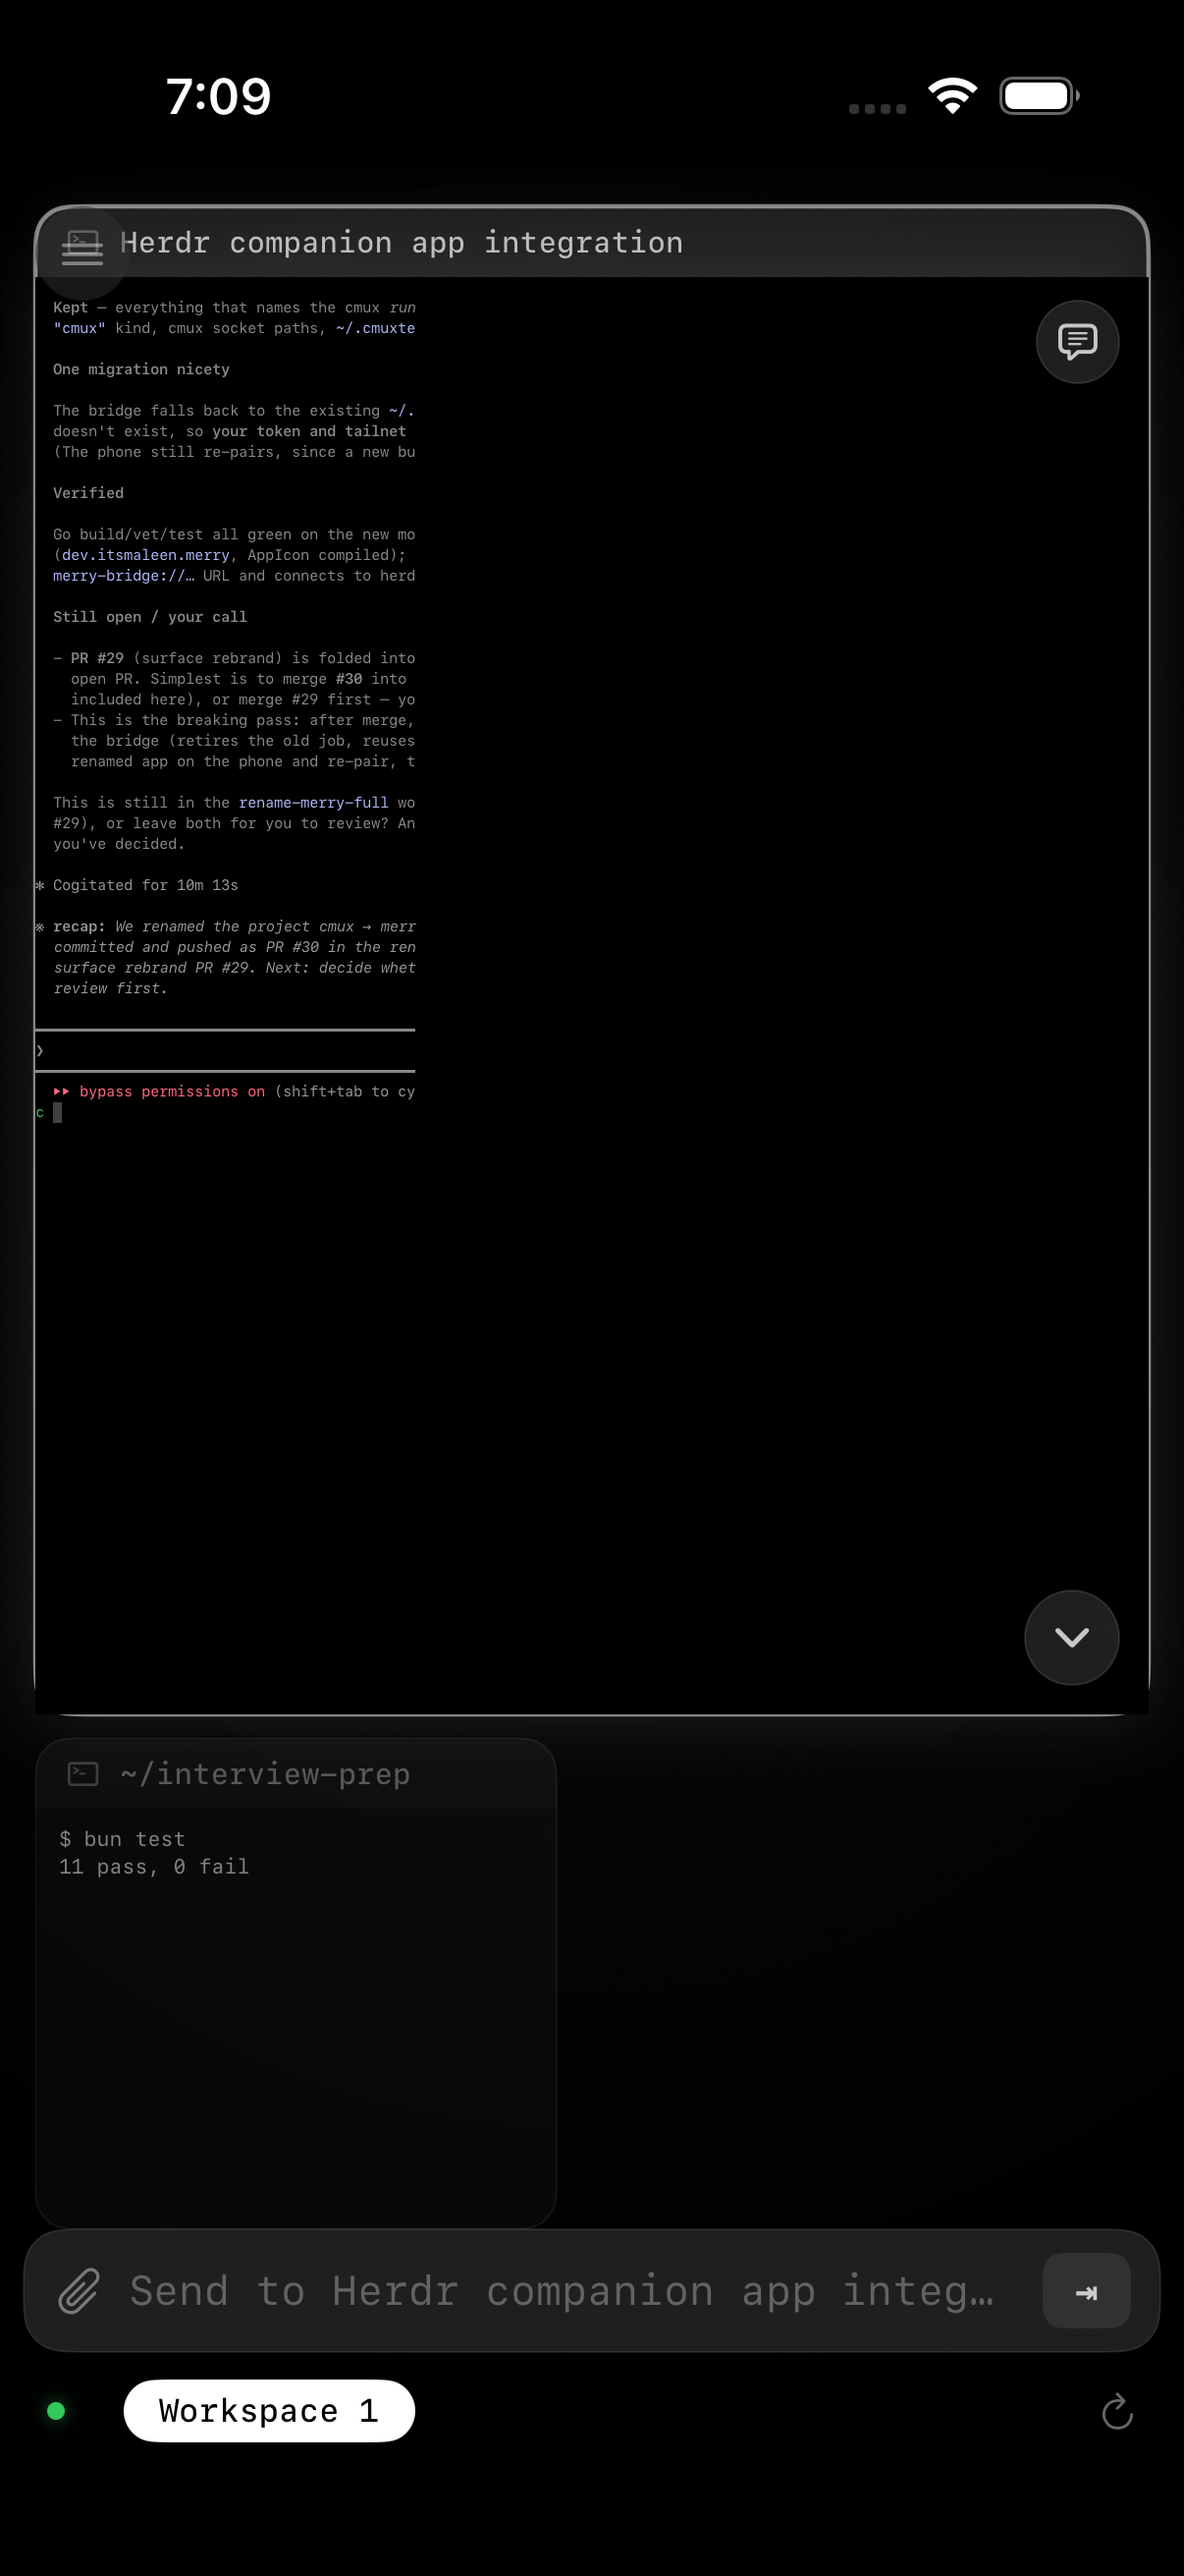
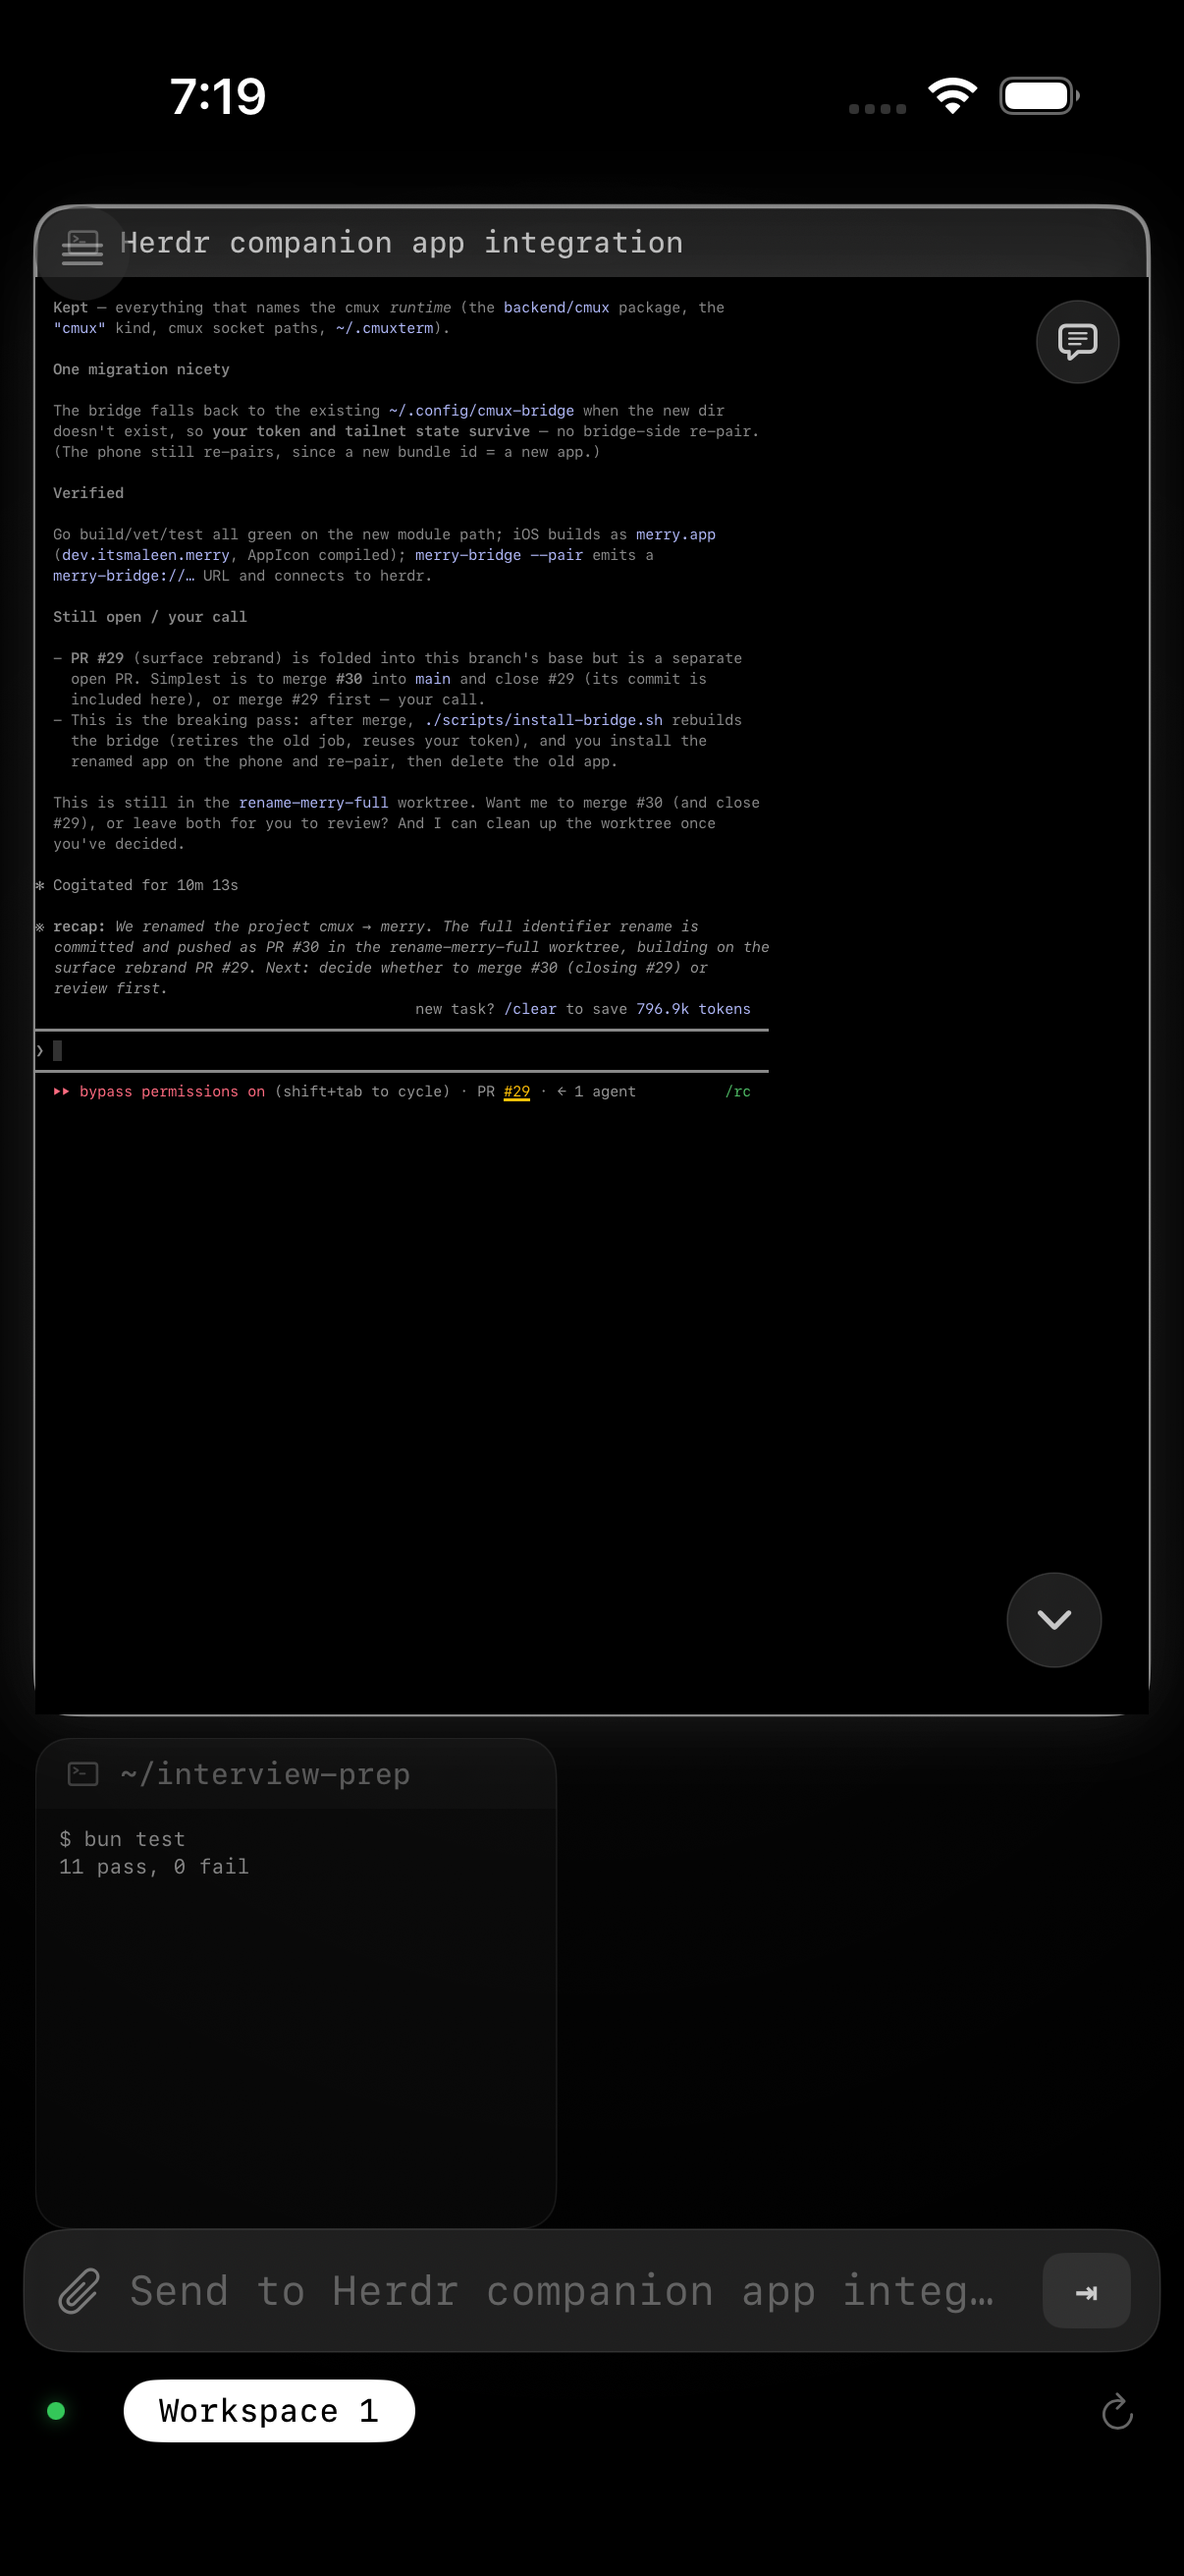
fix(ios): replay live frames after every SwiftTerm geometry change
SwiftTerm's layoutSubviews re-fits the terminal's column count to whatever
the bounds allow, and resizing a terminal that already holds content crops
it for good. The first layout after the view is created did exactly that:
fixture frames fed before layout were cropped to the 47 columns a 14pt font
fits, and the later re-fit to the frame's real width could not bring the
content back (both screenshots showed panes cut at ~47 columns).

DisplayOnlyTerminalView now keeps the last full frame plus the deltas since
it and, after any layout pass that changed the grid, resets the emulator,
re-asserts the frame's columns x rows, refits the font and replays the
bytes; frames are cursor-addressed repaints so the replay is exact. Deltas
are capped (4 MiB) and overflow asks the feed for a resync, which AppState
turns into a resubscribe so the bridge sends a fresh full frame. FrameFeed
gets the same byte cap instead of a frame-count cap that silently dropped
deltas.

Screenshots regenerated: both panes now render their full 120/85 columns.

Entire-Checkpoint: faebe6d6e80f

diff --git a/ios/cmux/Layout/LivePaneView.swift b/ios/cmux/Layout/LivePaneView.swift
@@ -23,6 +23,7 @@ struct LivePaneView: UIViewRepresentable {
         )
         context.coordinator.view = view
         context.coordinator.lastScrollToBottomRequest = scrollToBottomRequest
+        view.onResyncNeeded = { [weak feed] in feed?.requestResync() }
         feed.sink = context.coordinator
         return view
     }
@@ -33,6 +34,7 @@ struct LivePaneView: UIViewRepresentable {
         // and SwiftUI reused this UIViewRepresentable instance rather than
         // recreating it) — re-point the sink so frames land on this view.
         if feed.sink !== context.coordinator {
+            uiView.onResyncNeeded = { [weak feed] in feed?.requestResync() }
             feed.sink = context.coordinator
         }
         if scrollToBottomRequest != context.coordinator.lastScrollToBottomRequest {
@@ -49,7 +51,7 @@ struct LivePaneView: UIViewRepresentable {
         Coordinator()
     }
 
-    /// Applies frames to the SwiftTerm view. A separate object (rather than
+    /// Hands frames to the SwiftTerm view. A separate object (rather than
     /// LivePaneView itself) because FrameSink must be a class — FrameFeed
     /// holds it `weak`.
     @MainActor
@@ -58,28 +60,43 @@ struct LivePaneView: UIViewRepresentable {
         var lastScrollToBottomRequest = 0
 
         func receive(_ frame: TerminalFrame) {
-            guard let view else { return }
-            if frame.full {
-                view.getTerminal().resetToInitialState()
-                view.applyFrameGeometry(columns: frame.width, rows: frame.height)
-            }
-            view.feed(byteArray: Array(frame.bytes)[...])
+            view?.apply(frame)
         }
     }
 }
 
-/// A SwiftTerm `TerminalView` that never accepts input focus and keeps its
-/// column count pinned to the last live frame's declared width — SwiftTerm's
-/// own `layoutSubviews` otherwise silently re-fits the terminal's column
-/// count to whatever the view's current bounds allow, which would rewrap a
-/// frame's exact layout every time the card's size changes.
+/// A SwiftTerm `TerminalView` that never accepts input focus and always shows
+/// the last full frame (plus the deltas since it) at that frame's declared
+/// columns × rows.
+///
+/// SwiftTerm's own `layoutSubviews` re-fits the terminal's column count to
+/// whatever the current bounds allow — and a resize of a terminal that
+/// already holds content crops that content, permanently. That happens on
+/// the first layout after the view is created, on rotation, and whenever the
+/// card's size changes, so it is not enough to pin the size once: after
+/// every such pass the view resets the emulator, re-asserts the frame's real
+/// grid, and replays the frame bytes it kept. Frames are cursor-addressed
+/// repaints, so the replay is exact.
 final class DisplayOnlyTerminalView: TerminalView {
-    /// The most recent full frame's declared size, in terminal cells. Font
-    /// size is refit to this on every layout pass so a card resize (rotation,
-    /// split-view) doesn't leave the column count out of sync with what the
-    /// bridge is actually sending.
+    /// Bounds how many delta bytes are kept for replay before the view gives
+    /// up and asks for a fresh full frame instead.
+    private static let maxDeltaBytes = 4 << 20
+
     private var lastColumns = 0
     private var lastRows = 0
+    private var fullFrame: [UInt8]?
+    private var deltas: [[UInt8]] = []
+    private var deltaBytes = 0
+    /// Whether the emulator currently reflects `fullFrame` + `deltas` at
+    /// `lastColumns` × `lastRows`. False until the first replay succeeds
+    /// (the view needs non-zero bounds to fit a font first).
+    private var applied = false
+    /// Set when deltas had to be dropped: the live screen is still right (each
+    /// delta was fed as it arrived) but a replay would not be, so the next one
+    /// asks for a resync.
+    private var replayIncomplete = false
+    /// Asks the feed for a fresh full frame (a resubscribe on the bridge).
+    var onResyncNeeded: (() -> Void)?
 
     override var canBecomeFirstResponder: Bool { false }
     override var canBecomeFocused: Bool { false }
@@ -99,31 +116,76 @@ final class DisplayOnlyTerminalView: TerminalView {
         isOpaque = true
     }
 
-    /// Sets the terminal to `columns` × `rows` and fits the font so `columns`
-    /// spans the view's current width (or clamps to the minimum, letting the
-    /// view scroll horizontally instead of shrinking further).
-    func applyFrameGeometry(columns: Int, rows: Int) {
-        lastColumns = columns
-        lastRows = rows
-        refit()
+    /// Applies one frame: a full frame replaces everything kept and is
+    /// replayed from scratch; a delta is fed live and kept for later replays.
+    func apply(_ frame: TerminalFrame) {
+        let bytes = [UInt8](frame.bytes)
+        if frame.full {
+            fullFrame = bytes
+            deltas = []
+            deltaBytes = 0
+            replayIncomplete = false
+            lastColumns = frame.width
+            lastRows = frame.height
+            replay()
+            return
+        }
+        // A delta before any full frame has nothing to apply to; the bridge
+        // always starts a stream with a full frame, so just wait for it.
+        guard fullFrame != nil else { return }
+        if applied {
+            feed(byteArray: bytes[...])
+        }
+        deltas.append(bytes)
+        deltaBytes += bytes.count
+        if deltaBytes > Self.maxDeltaBytes {
+            deltas = []
+            deltaBytes = 0
+            replayIncomplete = true
+            onResyncNeeded?()
+        }
     }
 
     override func layoutSubviews() {
-        // Runs SwiftTerm's own auto-fit-to-bounds resize first; `refit()`
-        // below then re-asserts the last frame's real dimensions, so that
-        // auto-fit is never actually visible on screen.
+        // Runs SwiftTerm's own fit-to-bounds resize first (which may crop the
+        // emulator's content); the replay below then restores the frame's
+        // real grid and content.
         super.layoutSubviews()
-        refit()
+        guard lastColumns > 0, lastRows > 0 else { return }
+        let terminal = getTerminal()
+        if !applied || terminal.cols != lastColumns || terminal.rows != lastRows {
+            replay()
+        }
     }
 
-    private func refit() {
-        guard lastColumns > 0, lastRows > 0, bounds.width > 0 else { return }
+    /// Resets the emulator to the frame's grid and replays the kept bytes.
+    private func replay() {
+        guard lastColumns > 0, lastRows > 0, bounds.width > 0, bounds.height > 0, let full = fullFrame else {
+            applied = false
+            return
+        }
+        refitFont()
+        getTerminal().resetToInitialState()
+        resize(cols: lastColumns, rows: lastRows)
+        feed(byteArray: full[...])
+        for delta in deltas {
+            feed(byteArray: delta[...])
+        }
+        applied = true
+        if replayIncomplete {
+            onResyncNeeded?()
+        }
+    }
+
+    /// Fits the font so `lastColumns` spans the view's width, clamped to
+    /// FrameFit's range (at the minimum the view scrolls horizontally instead
+    /// of shrinking further).
+    private func refitFont() {
         let probeFont = UIFont.monospacedSystemFont(ofSize: 1, weight: .regular)
         let advance = ("M" as NSString).size(withAttributes: [.font: probeFont]).width
         let size = FrameFit.fontSize(forColumns: lastColumns, viewWidth: bounds.width, advanceOfMAt1pt: advance)
         if abs(size - font.pointSize) > 0.05 {
             font = UIFont.monospacedSystemFont(ofSize: size, weight: .regular)
         }
-        resize(cols: lastColumns, rows: lastRows)
     }
 }

diff --git a/ios/cmux/App/AppState.swift b/ios/cmux/App/AppState.swift
@@ -868,9 +868,27 @@ final class AppState: ObservableObject {
                 return
             }
             if self.frameFeeds[surfaceID] == nil {
-                self.frameFeeds[surfaceID] = FrameFeed()
+                self.frameFeeds[surfaceID] = self.makeFrameFeed(for: surfaceID)
             }
         }
+    }
+
+    /// A feed whose resync request restarts the surface's stream.
+    private func makeFrameFeed(for surfaceID: String) -> FrameFeed {
+        let feed = FrameFeed()
+        feed.onResyncNeeded = { [weak self] in self?.resyncFrames(surfaceID) }
+        return feed
+    }
+
+    /// Restarts a live stream so the bridge sends a fresh full frame — the
+    /// phone's view can no longer reconstruct the screen from what it kept
+    /// (see FrameFeed.onResyncNeeded). A resubscribe of an already-subscribed
+    /// surface restarts the stream on the bridge; the feed itself is kept so
+    /// the card doesn't flicker back to text.
+    private func resyncFrames(_ surfaceID: String) {
+        guard surfaceID == frameFocusedSurfaceID, framesSubscribed.contains(surfaceID) else { return }
+        framesSubscribed.remove(surfaceID)
+        subscribeFrames(for: surfaceID)
     }
 
     /// Stops streaming frames for `surfaceID` and drops its feed immediately
@@ -898,7 +916,7 @@ final class AppState: ObservableObject {
             await MainActor.run {
                 guard let self, push.surfaceID == self.frameFocusedSurfaceID else { return }
                 let feed = self.frameFeeds[push.surfaceID] ?? {
-                    let feed = FrameFeed()
+                    let feed = self.makeFrameFeed(for: push.surfaceID)
                     self.frameFeeds[push.surfaceID] = feed
                     return feed
                 }()
@@ -1584,22 +1602,38 @@ final class FrameFeed {
         didSet { replayBuffered() }
     }
 
+    /// Called when the feed (or its view) can no longer reconstruct the
+    /// screen from what it holds and needs the bridge to restart the stream
+    /// with a fresh full frame. Wired by AppState to a resubscribe.
+    var onResyncNeeded: (() -> Void)?
+
     private var buffered: [TerminalFrame] = []
-    /// Bounds memory if a sink never attaches (shouldn't happen in practice —
-    /// a subscribe only starts once the card is about to show the feed) and
-    /// keeps a runaway delta-only stream from growing unbounded.
-    private static let maxBuffered = 64
+    private var bufferedDeltaBytes = 0
+    /// Bounds the deltas kept since the last full frame. Dropping a delta
+    /// would make a later replay silently wrong, so instead the whole tail is
+    /// dropped and a resync requested.
+    private static let maxBufferedDeltaBytes = 4 << 20
 
     func append(_ frame: TerminalFrame) {
         if frame.full {
             buffered = [frame]
+            bufferedDeltaBytes = 0
         } else {
             buffered.append(frame)
-            if buffered.count > Self.maxBuffered {
-                buffered.removeFirst(buffered.count - Self.maxBuffered)
+            bufferedDeltaBytes += frame.bytes.count
+            if bufferedDeltaBytes > Self.maxBufferedDeltaBytes {
+                buffered = []
+                bufferedDeltaBytes = 0
+                sink?.receive(frame)
+                onResyncNeeded?()
+                return
             }
         }
         sink?.receive(frame)
+    }
+
+    func requestResync() {
+        onResyncNeeded?()
     }
 
     private func replayBuffered() {
